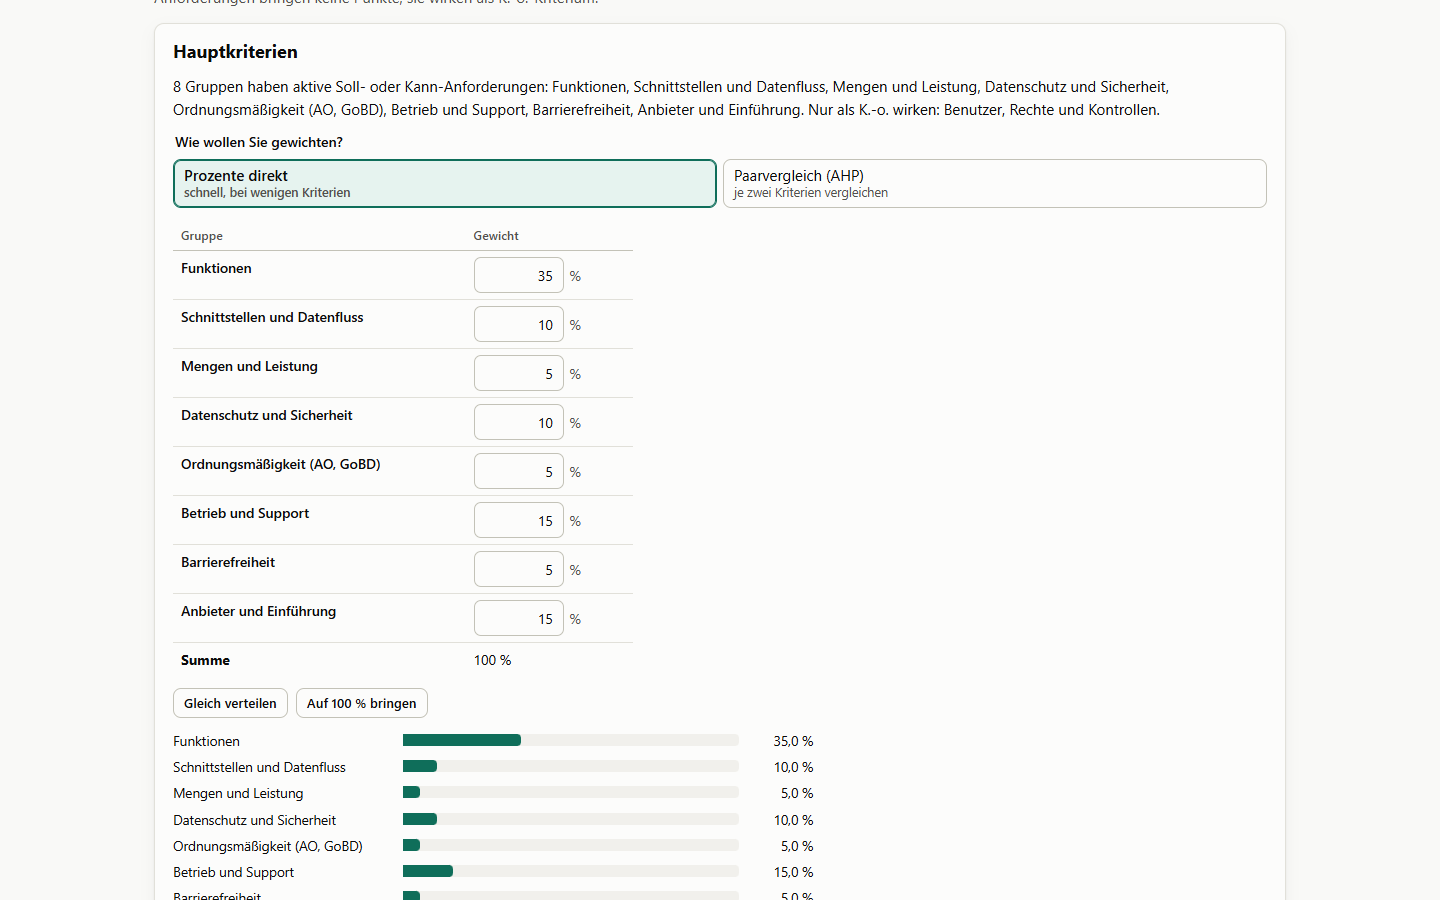
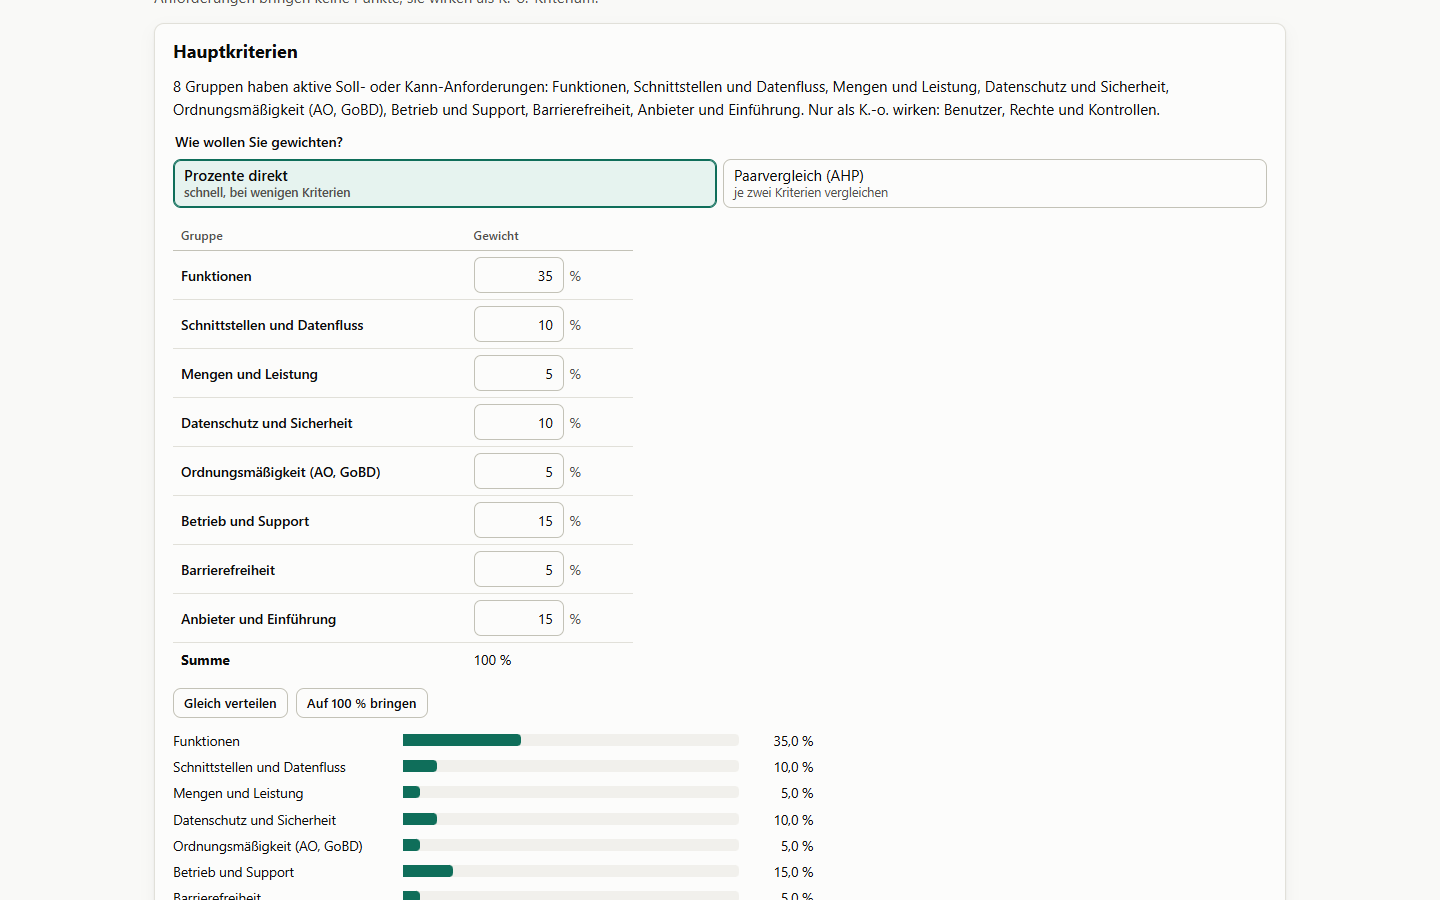
Lernhinweis Abnahmekriterium, Rechtshinweis mit Stand in der Entscheidungsvorlage
- Schritt Anforderungen erklärt im Lernmodus auch das Abnahmekriterium (5.1)
- Entscheidungsvorlage nennt „Rechtliche Anforderungen ohne Gewähr, keine Rechtsberatung, Stand …“ (Spezifikation 8)
- E1 prüft den Hinweis; Bilder und PDF-Proben neu erzeugt

diff --git a/src/ui/druck/Entscheidungsvorlage.tsx b/src/ui/druck/Entscheidungsvorlage.tsx
@@ -6,6 +6,7 @@
 import { angebotsname } from '../../bewertung/nutzwert'
 import { stabilitaetText } from '../../bewertung/sensitivitaet'
 import { begruendungsEntwurf } from '../../entscheidung/begruendung'
+import { RECHTSSTAND } from '../../lastenheft/katalog'
 import { ausgangslagePunkte, REGEL_NAME, vorgehenPunkte } from '../../export/vorlagen'
 import type { Gruppe } from '../../modell/typen'
 import { datum, euro, nutzwert } from '../../modell/zahlformat'
@@ -182,7 +183,7 @@ export function Entscheidungsvorlage() {
             ))}
           </tbody>
         </table>
-        <p className="druck-klein">Rechtliche Hinweise ohne Gewähr, keine Rechtsberatung. Alle Beträge netto.</p>
+        <p className="druck-klein">Rechtliche Anforderungen ohne Gewähr, keine Rechtsberatung, Stand {RECHTSSTAND}. Alle Beträge netto.</p>
       </section>
     </article>
   )

diff --git a/e2e/ablauf.spec.ts b/e2e/ablauf.spec.ts
@@ -9,6 +9,7 @@ test('Beispiel durch alle sieben Schritte bis zur Vorlage (E1)', async ({ page }
   const vorlage = page.locator('.druck-dokument')
   await expect(vorlage).toContainText('Empfohlen wird Anbieter Nord (Warenwirtschaft Nord).')
   await expect(vorlage.locator('.empfehlung-name')).toContainText('Anbieter Nord')
+  await expect(vorlage).toContainText('Rechtliche Anforderungen ohne Gewähr, keine Rechtsberatung, Stand 11.11.2026.')
 })
 
 test('Prozesslotse-Datei einlesen und Umfang zeigen (E2)', async ({ page }) => {

diff --git a/src/ui/schritte/AnforderungenSchritt.tsx b/src/ui/schritte/AnforderungenSchritt.tsx
@@ -76,6 +76,7 @@ export function AnforderungenSchritt() {
       </h1>
       <p className="einleitung">Prüfen Sie die Vorschläge, passen Sie Texte und Prioritäten an und ergänzen Sie eigene Anforderungen. Aktive Anforderungen kommen ins Lastenheft.</p>
       <Lernhinweis thema="moscow" />
+      <Lernhinweis thema="abnahme" />
 
       <section className="karte kopfzahlen" id="anforderungen-kopf" aria-labelledby="kopf-titel">
         <h2 id="kopf-titel" className="sr">
